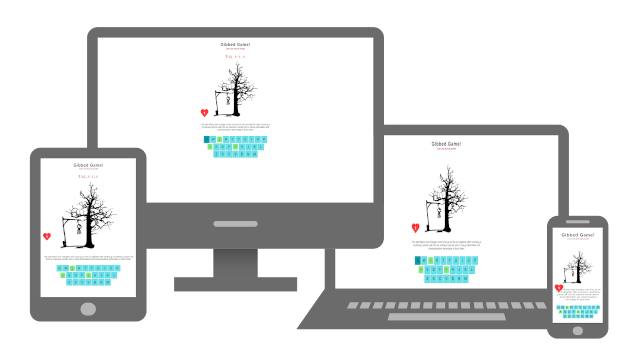
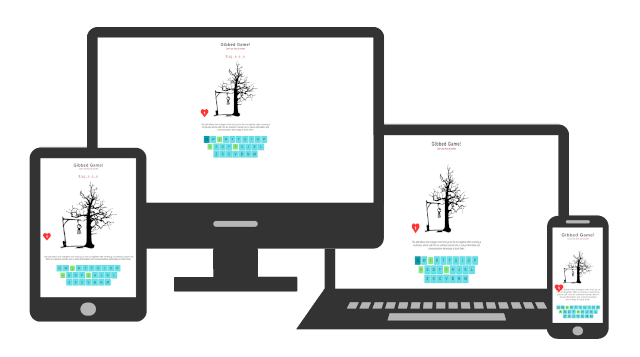
Change styles for better UX.

Changed region(s): [[0.0312, 0.0616, 0.9688, 0.9552]]

diff --git a/index.html b/index.html
@@ -88,50 +88,78 @@
     <!-- Main -->
     <main id="projects" class="container">
         
-        <!-- project -->
+        <!-- Norella project -->
         <article class="article">
                 <div class="article-row">
-                    <img src="./assets/img/Norella/Norella-main-page.gif" class="main-img" alt="Norella image">
+                    <img src="./assets/img/Norella/norella-main-page.gif" class="main-img" alt="Norella site - gif">
                     <div class="content-wrap">
-                        <h2 class="title">Norella</h2>
-                        <p class="desc">Aplikacja internetowa napisana w Laravelu służąca do zarządzania treścią (CMS) dla studia urody - Norella.</p>
-                        <p class="desc mobile-hidden">Logowanie dostępne tylko za pomocą zewnętrznego linku. Tylko administrator serwisu może zakłożyć nowe konto. Po zalogowaniu się użytkownik dodaje/edytuje lub usuwa oferty z listy.</p>
-                        <p class="desc mobile-hidden">Goście odwiedzający stronę widzą całą ofertę i wizytówkę firmy z możliwością dodawania komentarzy bez logowania się.</p>
-                        <p class="desc mobile-hidden">Strona w pełni responsywna.</p>
-
-                        <div class="row">
-                            <a href="" class="link-icon"><i class="fas fa-globe"></i></a>
-                            <button type="button" class="btn btn-light desktop-hidden" data-modal="toggle" data-modal-id="modal-1">Więcej o projekcie</button>
-                            <a href="" class="link-icon"><i class="fab fa-github"></i></a>
+                        <div class="top-row">
+                            <div class="half">
+                                <h2 class="title">Norella</h2>
+                                <p class="desc">Aplikacja internetowa napisana w Laravelu, służąca do zarządzania treścią (CMS) dla studia urody - Norella.</p>
+                                <p class="desc mobile-hidden">Logowanie dostępne tylko za pomocą zewnętrznego linku. Tylko administrator serwisu może założyć nowe konto. Po zalogowaniu się, użytkownik dodaje, edytuje lub usuwa oferty z listy.</p>
+                                <p class="desc mobile-hidden">Goście odwiedzający stronę widzą całą ofertę i wizytówkę firmy z możliwością dodawania komentarzy bez logowania się.</p>
+                                <p class="desc mobile-hidden">Strona w pełni responsywna.</p>
+                            </div>
+                            <div class="half mobile-hidden">
+                                <img src="./assets/img/Norella/norella.png" alt="">
+                            </div>
                         </div>
+                        
+                        <div class="row">
+                            <a href="https://norella.pl" class="link-icon" target="_blank"><i class="fas fa-globe"></i> <span class="mobile-hidden">Strona WWW</span></a>
+                            <button type="button" class="btn btn-light desktop-hidden" data-modal="toggle" data-modal-id="modal-1">Więcej o projekcie</button>
+                            <a href="https://github.com/Piecuch-Patryk/Norella" class="link-icon" target="_blank"><i class="fab fa-github"></i> <span class="mobile-hidden">GitHub</span></a>
+                        </div>
+
+                        <ul class="flex-row mobile-hidden">
+                            <li class="flex-el"><img src="./assets/img/logos/laravel.png" alt="Laravel logo"></li>
+                            <li class="flex-el"><img src="./assets/img/logos/bootstrap.png" alt="Bootstrap logo"></li>
+                            <li class="flex-el"><img src="./assets/img/logos/masonry.png" alt="Masonry logo"></li>
+                            <li class="flex-el"><img src="./assets/img/logos/intervention.png" alt="Intervention image logo"></li>
+                        </ul>
                     </div>
                 </div>
         </article>
 
-        <!-- poroject -->
+        <!-- Gibbet game poroject -->
         <article class="article">
-                <div class="article-row">
-                    <img src="./assets/img/Norella/Norella-main-page.gif" class="main-img" alt="Norella image">
-                    <div class="content-wrap">
-                        <h2 class="title">Norella</h2>
-                        <p class="desc">Aplikacja internetowa napisana w Laravelu służąca do zarządzania treścią (CMS) dla studia urody - Norella.</p>
-                        <p class="desc mobile-hidden">Logowanie dostępne tylko za pomocą zewnętrznego linku. Tylko administrator serwisu może zakłożyć nowe konto. Po zalogowaniu się użytkownik dodaje/edytuje lub usuwa oferty z listy.</p>
-                        <p class="desc mobile-hidden">Goście odwiedzający stronę widzą całą ofertę i wizytówkę firmy z możliwością dodawania komentarzy bez logowania się.</p>
-                        <p class="desc mobile-hidden">Strona w pełni responsywna.</p>
-
-                        <div class="row">
-                            <a href="" class="link-icon"><i class="fas fa-globe"></i></a>
-                            <button type="button" class="btn btn-light desktop-hidden" data-modal="toggle" data-modal-id="modal-1">Więcej o projekcie</button>
-                            <a href="" class="link-icon"><i class="fab fa-github"></i></a>
+            <div class="article-row">
+                <img src="./assets/img/Gibbet/gibbet.gif" class="main-img" alt="Norella site - gif">
+                <div class="content-wrap">
+                    <div class="top-row">
+                        <div class="half">
+                            <h2 class="title">Gibbet Game</h2>
+                            <p class="desc">Prosta gra zwana szubienicą. Gracz ma do wyboru dwie kategorie i trzy poziomy trudności. Gra generuje ilość żyć do wykorzystania na podstawie poziomu trudności.</p>
+                            <p class="desc mobile-hidden">Aplikacja napisana w EcmaScript 6 z użyciem Webpacka. Jest to gra przeglądarkowa, która nie wykorzystuje bazy danych. Wszystkie hasła niezbędne do grania przechowywane są w postaci obiektu jSON, więc istnieje możliwość rozszerzenia aplikacji o back-end.</p>
+                            <p class="desc mobile-hidden">Strona w pełni responsywna.</p>
+                        </div>
+                        <div class="half mobile-hidden">
+                            <img src="./assets/img/Gibbet/gibbet.png" alt="Responsive layout image.">
                         </div>
                     </div>
+                    
+                    <div class="row">
+                        <a href="https://patrykpiecuch.pl/projects/gibbet/dist" class="link-icon" target="_blank"><i class="fas fa-globe"></i> <span class="mobile-hidden">Strona WWW</span></a>
+                        <button type="button" class="btn btn-light desktop-hidden" data-modal="toggle" data-modal-id="modal-2">Więcej o projekcie</button>
+                        <a href="https://github.com/Piecuch-Patryk/Gibbet" class="link-icon" target="_blank"><i class="fab fa-github"></i> <span class="mobile-hidden">GitHub</span></a>
+                    </div>
+
+                    <ul class="flex-row mobile-hidden">
+                        <li class="flex-el"><img src="./assets/img/logos/laravel.png" alt="Laravel logo"></li>
+                        <li class="flex-el"><img src="./assets/img/logos/bootstrap.png" alt="Bootstrap logo"></li>
+                        <li class="flex-el"><img src="./assets/img/logos/masonry.png" alt="Masonry logo"></li>
+                        <li class="flex-el"><img src="./assets/img/logos/intervention.png" alt="Intervention image logo"></li>
+                    </ul>
                 </div>
+            </div>
         </article>
 
-        <!-- project -->
     </main>
 
     <!-- Modals -->
+
+    <!-- norella - modal -->
     <div id="modal-1" class="modal">
         <div class="sticky-row">
             <button type="button" class="btn-close" data-modal="toggle" data-modal-id="modal-1">
@@ -140,14 +168,41 @@
         </div>
         <img src="./assets/img/Norella/norella.png" alt="Project gif">
 
-        <p class="desc">Aplikacja internetowa napisana w Laravelu służąca do zarządzania treścią (CMS) dla studia urody - Norella.</p>
-        <p class="desc">Logowanie dostępne tylko za pomocą zewnętrznego linku. Tylko administrator serwisu może zakłożyć nowe konto. Po zalogowaniu się użytkownik dodaje/edytuje lub usuwa oferty z listy.</p>
+        <p class="desc">Aplikacja internetowa napisana w Laravelu, służąca do zarządzania treścią (CMS) dla studia urody - Norella.</p>
+        <p class="desc">Logowanie dostępne tylko za pomocą zewnętrznego linku. Tylko administrator serwisu może założyć nowe konto. Po zalogowaniu się, użytkownik dodaje, edytuje lub usuwa oferty z listy.</p>
         <p class="desc">Goście odwiedzający stronę widzą całą ofertę i wizytówkę firmy z możliwością dodawania komentarzy bez logowania się.</p>
-        <p class="desc">Strona responsywna.</p>
+        <p class="desc">Strona w pełni responsywna.</p>
 
         <ul class="links-row">
-            <li><a href="" class="btn btn-primary">Odwiedź stronę</a></li>
-            <li><a href="" class="btn btn-light-outline">GitHub</a></li>
+            <li><a href="https://norella.pl" class="btn btn-primary" target="_blank">Odwiedź stronę</a></li>
+            <li><a href="https://github.com/Piecuch-Patryk.com/Norella" class="btn btn-light-outline" target="_blank">GitHub</a></li>
+        </ul>
+
+        <ul class="flex-row">
+            <li class="flex-el"><img src="./assets/img/logos/laravel.png" alt=""></li>
+            <li class="flex-el"><img src="./assets/img/logos/bootstrap.png" alt=""></li>
+            <li class="flex-el"><img src="./assets/img/logos/masonry.png" alt=""></li>
+            <li class="flex-el"><img src="./assets/img/logos/intervention.png" alt=""></li>
+            <li class="flex-el"><img src="./assets/img/logos/intervention.png" alt=""></li>
+        </ul>
+    </div>
+
+    <!-- gibbet game - modal -->
+    <div id="modal-2" class="modal">
+        <div class="sticky-row">
+            <button type="button" class="btn-close" data-modal="toggle" data-modal-id="modal-2">
+                <i class="fas fa-times"></i>
+            </button>
+        </div>
+        <img src="./assets/img/Gibbet/gibbet.png" alt="Project gif">
+
+        <p class="desc">Prosta gra zwana szubienicą. Gracz ma do wyboru dwie kategorie i trzy poziomy trudności. Gra generuje ilość żyć do wykorzystania na podstawie poziomu trudności.</p>
+        <p class="desc">Aplikacja napisana w EcmaScript 6 z użyciem Webpacka. Jest to gra przeglądarkowa, która nie wykorzystuje bazy danych. Wszystkie hasła niezbędne do grania przechowywane są w postaci obiektu json, więc istnieje możliwość rozszerzenia aplikacji o back-end.</p>
+        <p class="desc">Strona w pełni responsywna.</p>
+
+        <ul class="links-row">
+            <li><a href="https://patrykpiecuch/projects/gibbet/dist" class="btn btn-primary" target="_blank">Odwiedź stronę</a></li>
+            <li><a href="htpps://github.com/Piecuch-Patryk/Gibbet" class="btn btn-light-outline" target="_blank">GitHub</a></li>
         </ul>
 
         <ul class="flex-row">

diff --git a/assets/css/media.css b/assets/css/media.css
@@ -10,15 +10,17 @@
         width: 280px;
     }
     .img-list-el:nth-of-type(1) {
-        transform: translate3d(30%, -15%, 0) rotate(-20deg);
+        transform: translate3d(20%, -10%, 0) rotate(-20deg);
     }
     .img-list-el:nth-of-type(2) {
         height: 200px;
         width: 300px;
-        transform: translate3d(130%, -120%, 0) rotate(-5deg) scale(1.2);
+        transform: translate3d(130%, -130%, 0) rotate(-5deg) scale(1.2);
     }
     .img-list-el:nth-of-type(3) {
-        transform: translate3d(180%, -70%, 0) rotate(15deg) scale(.9);
+        height: 360px;
+        width: 280px;
+        transform: translate3d(150%, -70%, 0) rotate(15deg) scale(.9);
     }
     .sub-heading {
         width: 65%;
@@ -34,9 +36,15 @@
     .links-row {
         margin: 2rem 0;
     }
+    .skills .row {
+        padding: 2rem;
+    }
     .skills .title-md {
         width: 80%;
         margin: auto;
+    }
+    .form {
+        width: 75%;
     }
 }
 
@@ -101,7 +109,7 @@
         transform: translate3d(170%, -100%, 0) rotate(5deg) scale(1);
     }
     .img-list-el:nth-of-type(3) {
-        transform: translate3d(140%, -100%, 0) rotate(-15deg) scale(.8);
+        transform: translate3d(240%, -80%, 0) rotate(-15deg) scale(.9);
     }
     .heading {
         font-size: 3rem;
@@ -124,19 +132,83 @@
 
     /* Main */
     .article {
-        background: none;
         background-color: var(--primary-color);
-        color: var(--text-dark);
-        padding: 4rem 2rem;
+        padding: 0 .2rem;
     }
-    .title,
-    .desc {
-        padding: .5rem 0;
+    .main-img {
+        border-radius: 20px;
+    }
+    .content-wrap {
+        text-align: left;
+        overflow-x: hidden;
+
+    }
+    .top-row {
+        display: flex;
+        align-items: stretch;
+        justify-content: center;
+    }
+    .half {
+        padding: 2rem;
+    }
+    .half:last-of-type {
+        align-self: flex-end;
+        padding: 0;
+        margin-right: 2rem;
+    }
+    .half:last-of-type img {
+        transition: transform .3s ease-in-out;
+    }
+    .half:last-of-type img:hover {
+        transform: scale(1.4);
+    }
+    .title {
+        padding-left: 1rem;
+    }
+    .article .row {
+        width: 100%;
+        justify-content: flex-start;
+    }
+    .link-icon {
+        height: auto;
+        width: auto;
+        background: none;
+        font-size: 1rem;
+        border-radius: 20px;
+        padding: 0 1rem;
+        margin: 0 1rem;
+        transition: all .3s ease-in-out;
+    }
+    .link-icon:hover {
+        background-color: #fff;
+        transform: scale(.9);
+    }
+    .link-icon span {
+        display: inline-block;
+    }
+    .link-icon:nth-of-type(1) {
+        color: var(--text-light);
+    }
+    .link-icon:nth-of-type(1):hover {
+        color: var(--primary-color);
+    }
+    .flex-row {
+        display: flex;
+        flex-direction: row;
+        padding: 2rem;
+    }
+    .flex-el {
+        flex-basis: 100px;
+        transition: transform .3s ease-in-out;
+    }
+    .flex-el:hover {
+        transform: scale(1.5);
     }
 
     /* Aside */
     .aside {
-        background-color: var(--primary-color);
+        /* background-color: var(--primary-color); */
+        background-color: #fff;
         padding: 3rem;
     }
     .list-lang-el {
@@ -202,6 +274,8 @@
 
     /* Footer */
     .footer {
+        position: relative;
+        z-index: 1;
         background-color: #fff;
     }
 }

diff --git a/assets/css/header.css b/assets/css/header.css
@@ -16,22 +16,24 @@
     background-size: cover;
     background-position: center;
     border: 2px solid var(--primary-color);
-    border-radius: 5px;
+    border-radius: 10px;
     transition: all .5s linear;
 }
 .img-list-el:nth-of-type(1) {
-    background-image: url("../img/Norella/Norella-laptop.png");
+    background-image: url("../img/Norella/norella-mobile.png");
     transform: translate3d(50%, -5%, 0) rotate(-20deg);
 }
 .img-list-el:nth-of-type(2) {
     height: 100px;
     width: 160px;
     background-image: url("../img/Gibbet/Gibbet-laptop.png");
-    transform: translate3d(140%, -90%, 0) rotate(-5deg) scale(.8);
+    transform: translate3d(130%, -90%, 0) rotate(-5deg) scale(.8);
 }
 .img-list-el:nth-of-type(3) {
-    background-image: url("../img/Gibbet/Gibbet-laptop.png");
-    transform: translate3d(270%, -50%, 0) rotate(15deg) scale(.9);
+    background-image: url("../img/Prosta/Prosta-main-page.png");
+    transform: translate3d(300%, -40%, 0) rotate(15deg) scale(.9);
+    height: 130px;
+    width: 75px;
 }
 .heading {
     font-size: 3rem;

diff --git a/assets/css/skills.css b/assets/css/skills.css
@@ -55,7 +55,7 @@
     background-color: #fff;
     color: var(--primary-color);
     border-top: 2px solid var(--primary-color);
-    padding: 0 1rem 2rem;
+    padding: 0 0 2rem;
 }
 .skills .title-md {
     padding: 2rem 0;

diff --git a/assets/css/nav.css b/assets/css/nav.css
@@ -33,7 +33,7 @@
     background-color: #fff;
     padding: .2rem .4rem;
     line-height: 13px;
-    border-radius: 5px;
+    border-radius: 20px;
     z-index: 40;
 }
 .dot {

diff --git a/assets/css/contact.css b/assets/css/contact.css
@@ -7,7 +7,7 @@
     padding: 3rem 0;
 }
 .form {
-    width: 80%;
+    width: 95%;
     margin: 0 auto;
     border-radius: 20px;
     padding: 1rem 2rem;
